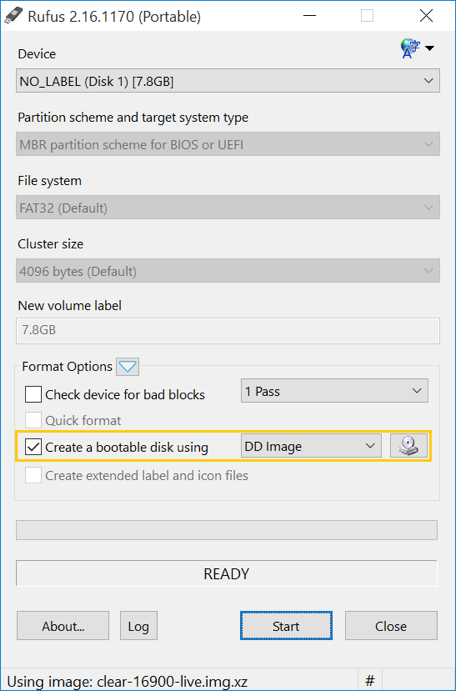
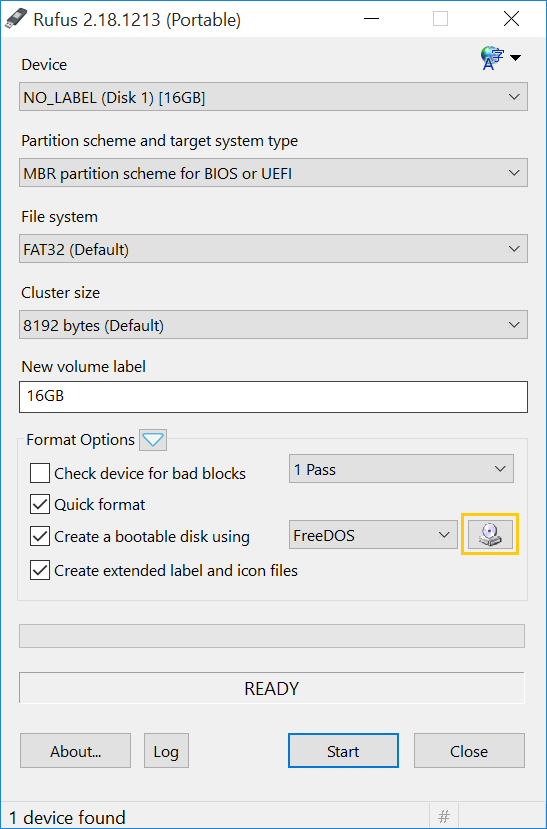
Restored these changes that I made prior to the Xmas holiday:
1) Fixed language per feedback.
2) Renamed Rufus-figure-1.png, Rufus-figure-2.png, Rufus-figure-3.png, 7zipwin.png to approved figure naming convention.
3) Fixed minor markup issues.

Sgne-off-by: Bun K Tan <bun.k.tan@intel.com>

diff --git a/source/clear-linux/guides/maintenance/download-verify-uncompress-linux.rst b/source/clear-linux/guides/maintenance/download-verify-uncompress-linux.rst
@@ -19,11 +19,10 @@ We also provide instructions for other operating systems:
 Verify the integrity of the Clear Linux image
 *********************************************
 
-Before you use a downloaded |CL| image, it is recommended that you verify its
-integrity to eliminate the chance, albeit small, that it might be corrupted
-due to any download issues.  To support this, each released |CL| image is
-accompanied by an official SHA512 checksum file, which is designated with the
-suffix `-SHA512SUMS`.
+Before you use a downloaded |CL| image, verify its integrity. Thus, you 
+eliminate the small chance of a corrupted image due to download issues.
+To support verification, we accompany each released |CL| image with an official 
+SHA512 checksum file, which is designated with the suffix `-SHA512SUMS`.  
 
 #.  Download the official corresponding SHA512 checksum file of your
     downloaded |CL| image.
@@ -43,10 +42,9 @@ a match and your downloaded image is good.
 Uncompress the Clear Linux image
 ********************************
 
-All released |CL| images are compressed by default using either GNU zip
-(`.gz`) or XZ (`.xz`).  The compression typed used is dependent on which
-platform/enviroment the image is targeted for.  Uncompress your image using
-these steps:
+We compress all released |CL| images by default with either GNU zip 
+(`.gz`) or XZ (`.xz`). The compression type we use depends on the target 
+platform or environment of the image. To uncompress the image, follow these steps:
 
 #.  Start a terminal emulator.
 #.  Go to the directory with the downloaded image.

diff --git a/source/clear-linux/guides/maintenance/download-verify-uncompress-mac.rst b/source/clear-linux/guides/maintenance/download-verify-uncompress-mac.rst
@@ -19,11 +19,10 @@ We also provide instructions for other operating systems:
 Verify the integrity of the Clear Linux image
 *********************************************
 
-Before you use a downloaded |CL| image, it is recommended that you verify its
-integrity to eliminate the chance, albeit small, that it might be corrupted
-due to any download issues.  To support this, each released |CL| image is
-accompanied by an official SHA512 checksum file, which is designated with the
-suffix `-SHA512SUMS`.
+Before you use a downloaded |CL| image, verify its integrity. Thus, you 
+eliminate the small chance of a corrupted image due to download issues.
+To support verification, we accompany each released |CL| image with an official 
+SHA512 checksum file, which is designated with the suffix `-SHA512SUMS`.  
 
 #. Download the official corresponding SHA512 checksum file of your
    downloaded |CL| image.
@@ -43,10 +42,9 @@ a match and your downloaded image is good.
 Uncompress the Clear Linux image
 ********************************
 
-All released |CL| images are compressed by default using either GNU zip
-(`.gz`) or XZ (`.xz`).  The compression typed used is dependent on which
-platform/enviroment the image is targeted for.  Uncompress your image using
-these steps:
+We compress all released |CL| images by default with either GNU zip 
+(`.gz`) or XZ (`.xz`). The compression type we use depends on the target 
+platform or environment of the image. To uncompress the image, follow these steps:
 
 #. Start the Terminal app.
 #. Go to the directory with the downloaded image.

diff --git a/source/clear-linux/guides/maintenance/download-verify-uncompress-windows.rst b/source/clear-linux/guides/maintenance/download-verify-uncompress-windows.rst
@@ -19,11 +19,10 @@ We also provide instructions for other operating systems:
 Verify the integrity of the Clear Linux image
 *********************************************
 
-Before you use a downloaded |CL| image, it is recommended that you verify its
-integrity to eliminate the chance, albeit small, that it might be corrupted
-due to any download issues.  To support this, each released |CL| image is
-accompanied by an official SHA512 checksum file, which is designated with the
-suffix `-SHA512SUMS`.
+Before you use a downloaded |CL| image, verify its integrity. Thus, you 
+eliminate the small chance of a corrupted image due to download issues.
+To support verification, we accompany each released |CL| image with an official 
+SHA512 checksum file, which is designated with the suffix `-SHA512SUMS`.  
 
 #.  Download the official corresponding SHA512 checksum file of your
     downloaded |CL| image.
@@ -41,10 +40,9 @@ suffix `-SHA512SUMS`.
 Uncompress the Clear Linux image
 ********************************
 
-All released |CL| images are compressed by default using either GNU zip
-(`.gz`) or XZ (`.xz`).  The compression typed used is dependent on which
-platform/enviroment the image is targeted for.  Uncompress your image using
-these steps:
+We compress all released |CL| images by default with either GNU zip 
+(`.gz`) or XZ (`.xz`). The compression type we use depends on the target 
+platform or environment of the image. To uncompress the image, follow these steps:
 
 #. Download and install `7zip`_.
 #. Locate the |CL| image and right-click it.

diff --git a/source/clear-linux/get-started/bootable-usb/bootable-usb-windows.rst b/source/clear-linux/get-started/bootable-usb/bootable-usb-windows.rst
@@ -27,15 +27,34 @@ Burn the Clear Linux image onto a USB drive
 
    |CAUTION-BACKUP-USB|
 
-#. Download the `Rufus`_ tool to burn the image onto a USB drive.
-#. Plug in the USB drive.
-#. Click the CD-ROM icon button and select the |CL| image file.  See Figure 1.
-#. Ensure that :guilabel:`Create a bootable disk using DD
-   Image` is checked.
+#. 	Download the `Rufus`_ tool to burn the image onto a USB drive.
+#. 	Plug in the USB drive.
+#. 	Click the :guilabel:`CD-ROM` icon button. See Figure 1.
 
-   .. figure:: figures/bootable-usb-windows-1.png
-      :scale: 100 %
-      :alt: Burn image onto USB drive
+	.. figure:: figures/bootable-usb-windows-1.png
+		:scale: 80 %
+		:alt: Rufus utility - Click CD-ROM button
+
+		Figure 1: Rufus utility - Click CD-ROM button
+
+#.	By default, Rufus only shows ISO files.  To find and select a compressed |CL| 
+	image file, you must click the file-type dropdown and select :guilabel:`All files`. 
+	See Figure 2.
+
+	.. figure:: figures/bootable-usb-windows-2.png
+		:scale:	80 %
+		:alt: Rufus utility - Show and select |CL| image file
+
+	Figure 2: Rufus utility - Show and select |CL| image file
+    
+#.	Verify that :guilabel:`Create a bootable disk using DD Image` checkbox is
+	checked. See Figure 3.
+
+	.. figure:: figures/bootable-usb-windows-3.png
+		:scale: 80 %
+		:alt: Rufus utility - Create a bootable disk using DD Image
+
+		Figure 3: Rufus utility - Create a bootable disk using DD Image
 
 #. Click :guilabel:`Start`.
 

diff --git a/source/clear-linux/get-started/bootable-usb/bootable-usb-mac.rst b/source/clear-linux/get-started/bootable-usb/bootable-usb-mac.rst
@@ -31,7 +31,7 @@ Burn the Clear Linux image onto a USB drive
 #. Launch the Terminal app.
 #. Go to the directory with the uncompressed image.
 #. Plug in a USB drive and get its identifier by entering the command
-   `diskutil list`.  See Figure 1.
+   :command:`diskutil list`.  See Figure 1.
 
    .. code-block:: console
 
@@ -41,6 +41,8 @@ Burn the Clear Linux image onto a USB drive
       :scale: 100 %
       :alt: Get USB drive identifier
 
+      Figure 1: macOS - Get USB drive identifier
+
 #. Unmount the USB drive identified in the previous step.  The command-line
    example below umounts `/dev/disk2`:
 
@@ -48,18 +50,18 @@ Burn the Clear Linux image onto a USB drive
 
       $ diskutil umountDisk /dev/disk2
 
-#. Burn the image onto the drive.  The command-line example below burns an
-   uncompressed image onto `/dev/disk2`:
+#. Burn the image onto the drive using the :command:`dd` command.  The 
+   command-line example below burns an uncompressed image onto `/dev/disk2`:
 
    .. code-block:: console
 
       $ sudo dd if=./clear-[version number]-[image type] of=/dev/rdisk2 bs=4m
 
-   .. note::
 
-      * Adding an ‘r’ in front of the disk identifier should help speed up the
-        imaging process.
-      * Press :kbd:`<CTL>-T` to check imaging progress.
+   Adding an ‘r’ in front of the disk identifier should help speed up the 
+   imaging process.
+   
+   You can press :kbd:`<CTL>-T` to check imaging progress.
 
 #. Eject the USB drive.
 

diff --git a/source/clear-linux/get-started/bootable-usb/bootable-usb-linux.rst b/source/clear-linux/get-started/bootable-usb/bootable-usb-linux.rst
@@ -37,7 +37,7 @@ Burn the Clear Linux image onto a USB drive
 
 #. Go to the directory with the uncompressed image.
 #. Plug in the USB drive.
-#. Identify the USB drive using the `lsblk` command.  This shows all drives
+#. Identify the USB drive using the :command:`lsblk` command.  This shows all drives
    attached to the system, including the primary hard disk. In the example
    output below, there are 4 drives (`/dev/sda`, `/dev/sdb`, `/dev/sdc`, and
    `/dev/sdd`) attached, where `/dev/sda` is primary drive in this case. The
@@ -73,8 +73,8 @@ Burn the Clear Linux image onto a USB drive
 
 #. Before an image can be burned onto a USB drive, it should be un-mounted.
    Some Linux distros may automatically mount a USB drive when it is plugged
-   in. To unmount, use the `umount` command followed by the device
-   identifier/partition. For example: From the above `lsblk` output,
+   in. To unmount, use the :command:`umount` command followed by the device
+   identifier/partition. For example: From the above :command:`lsblk` output,
    `/dev/sdd` has 2 mounted partitions.  To unmount them, enter:
 
    .. code-block:: console
